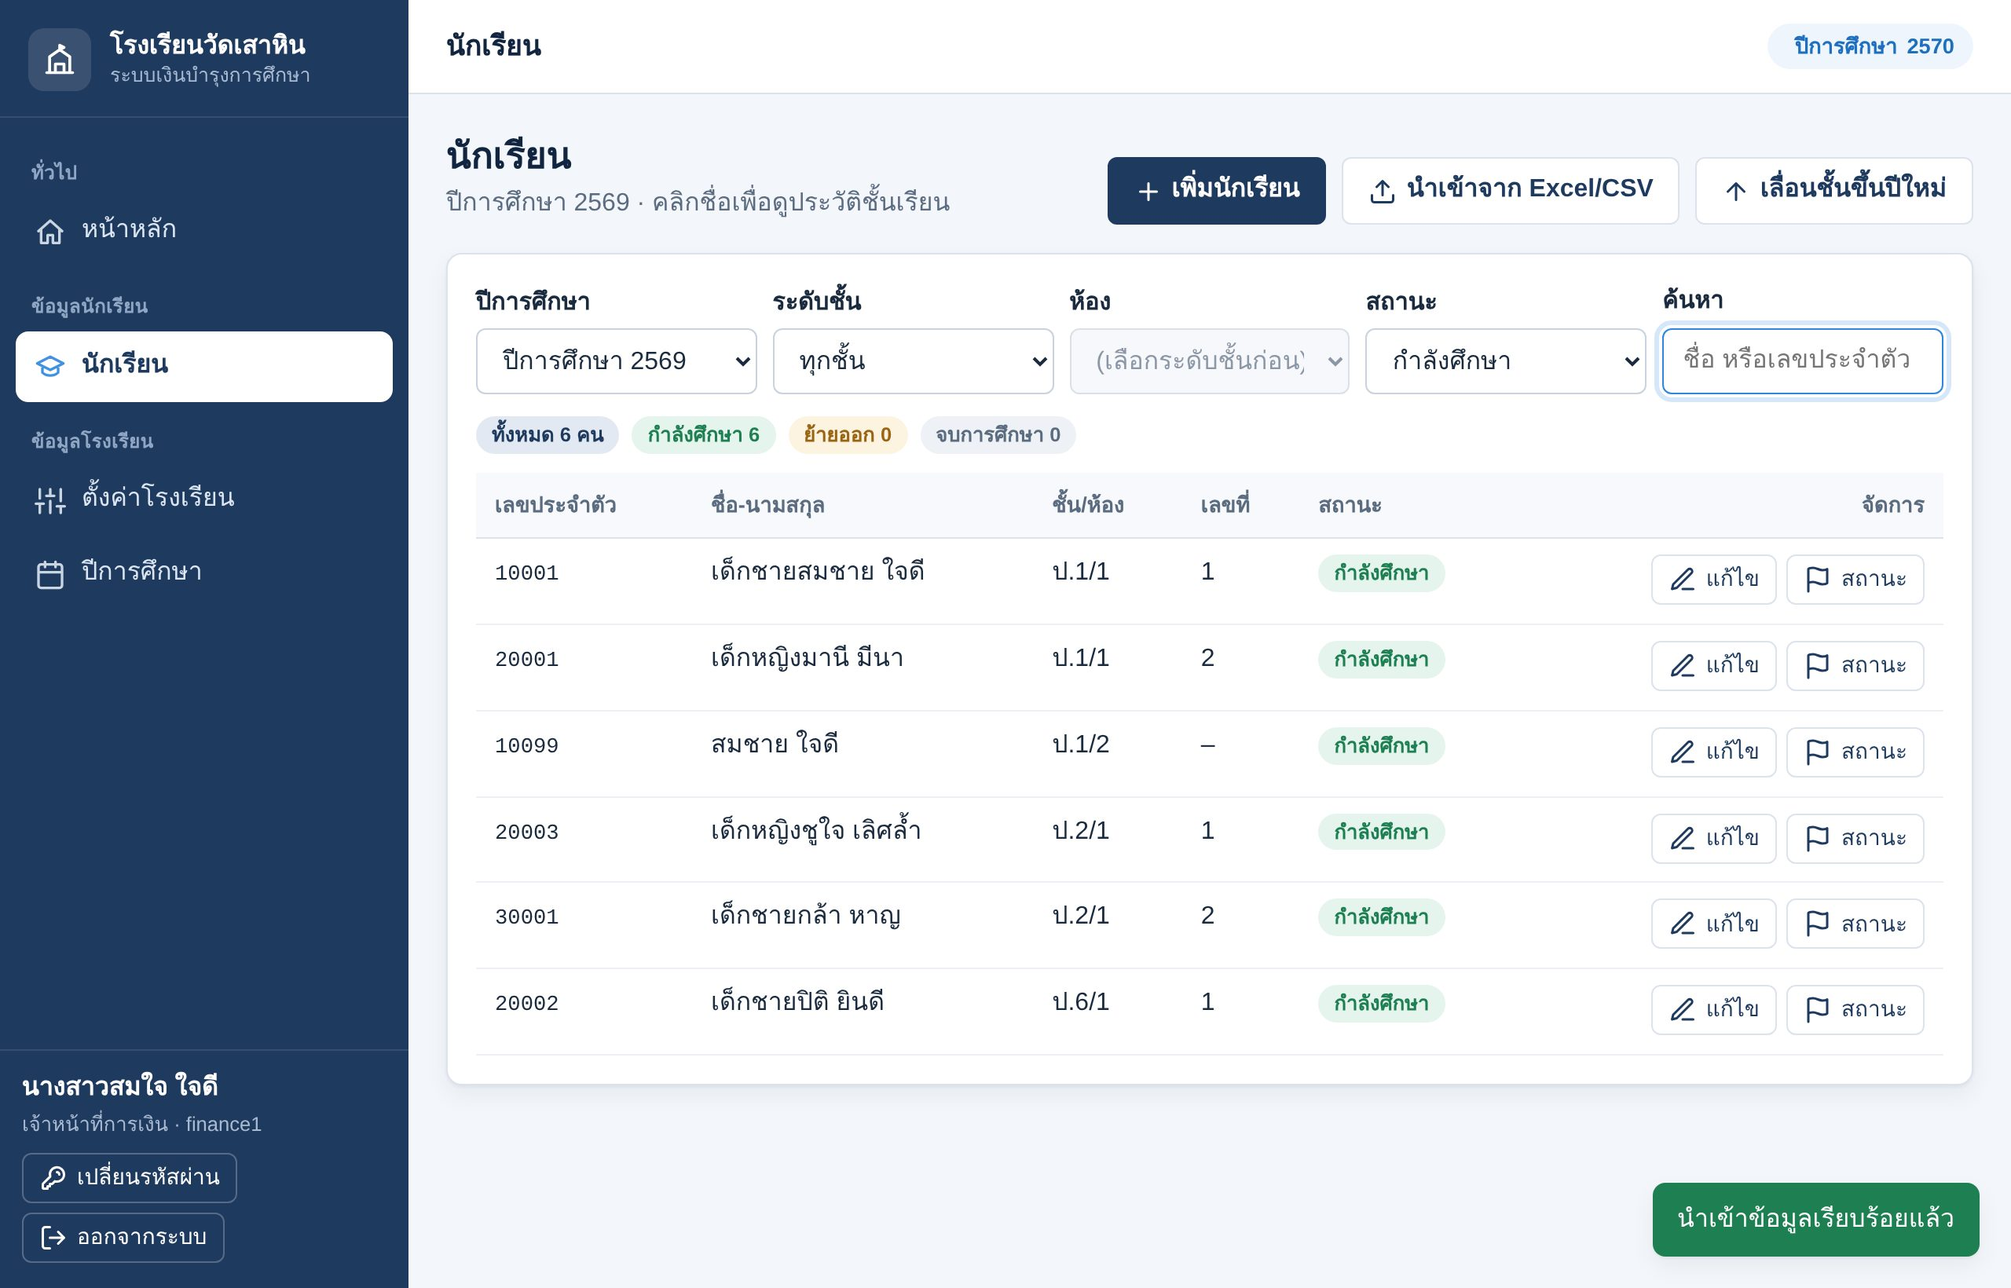
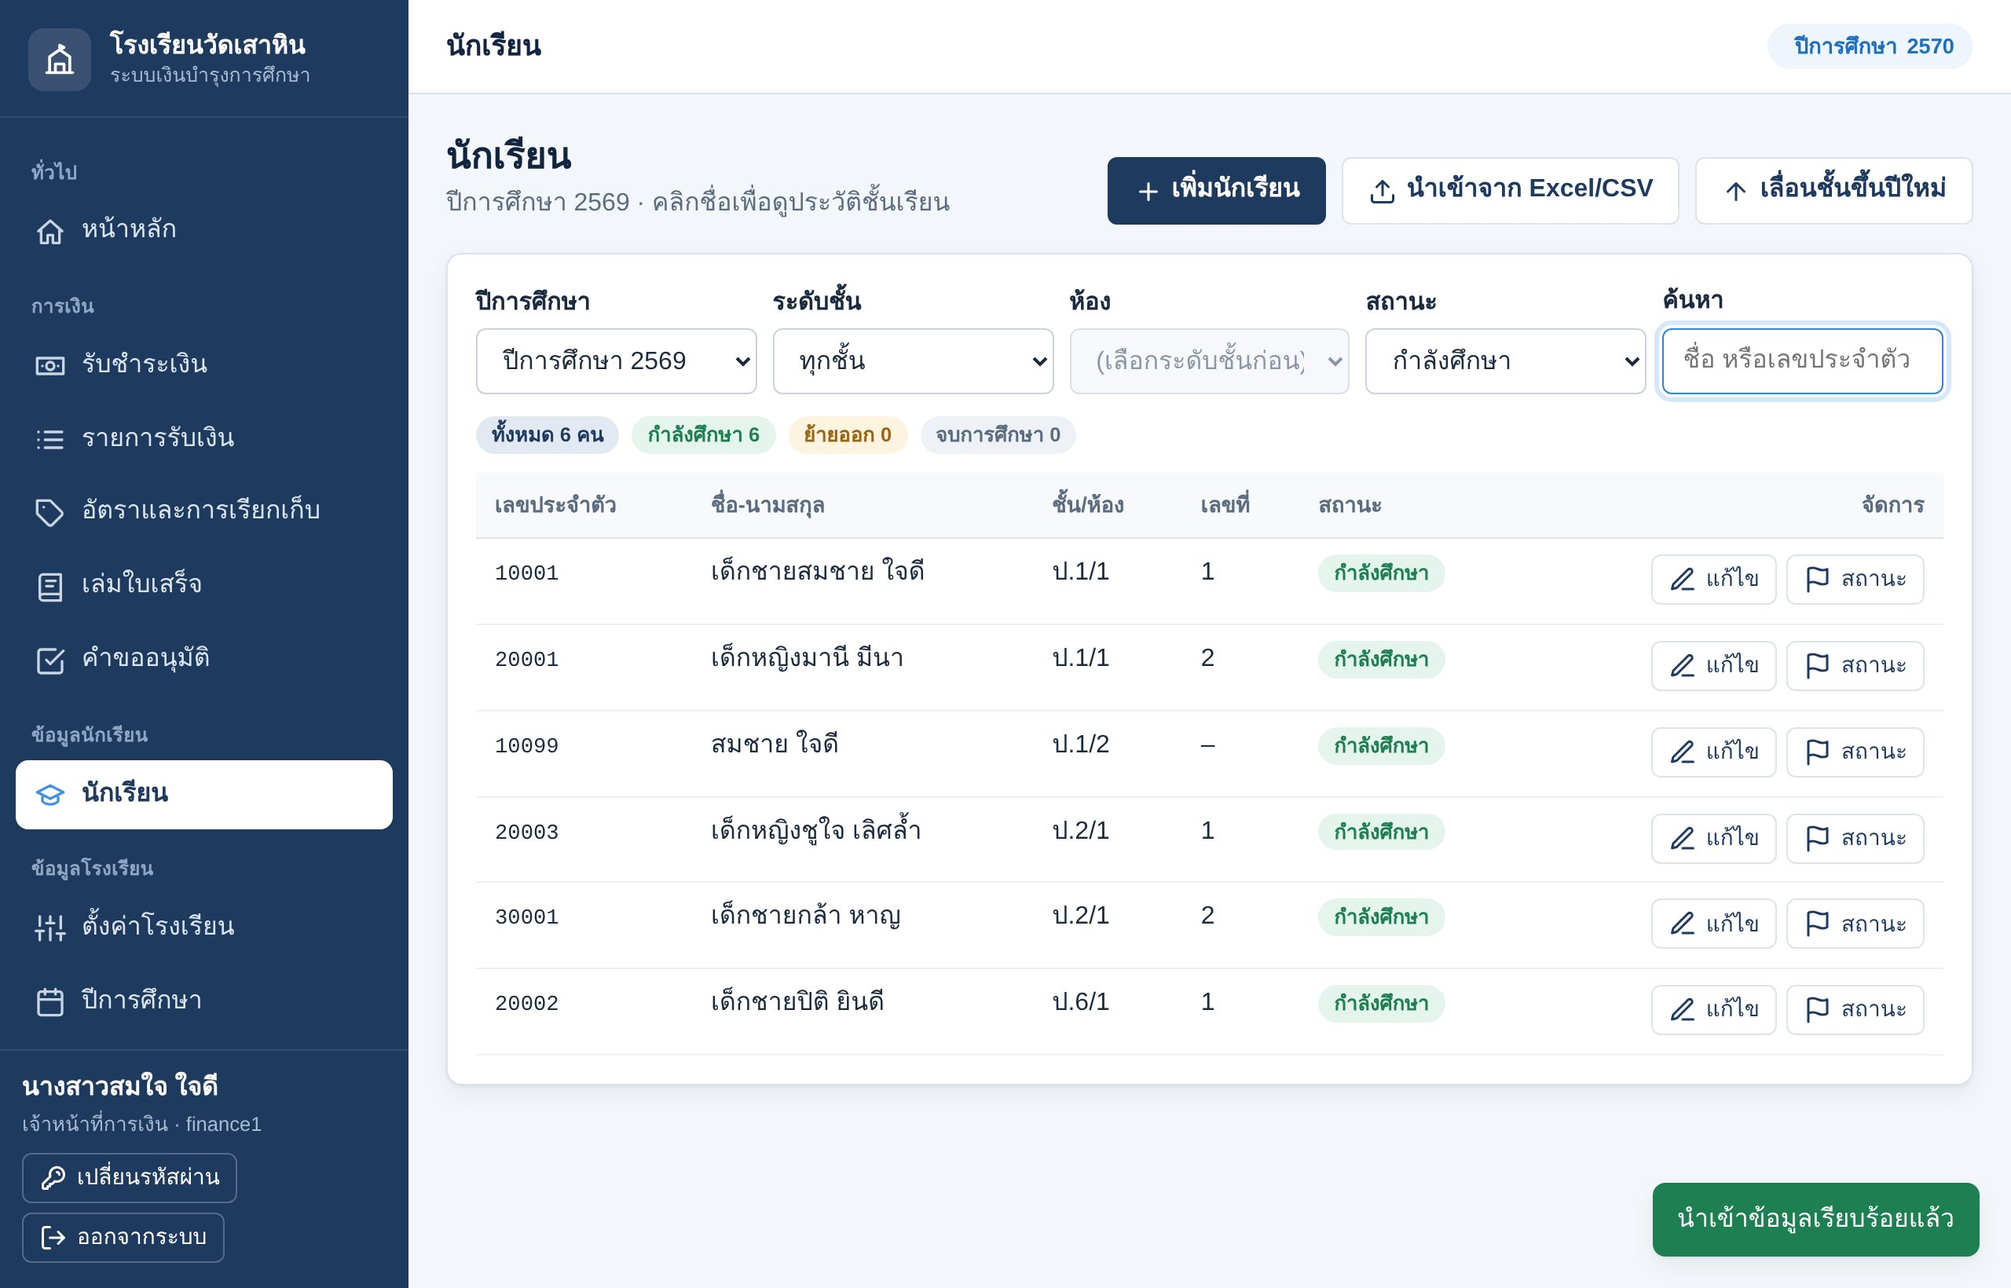
WIP phase 4: browser test for billing, payments and approvals
Claude-Session: https://claude.ai/code/session_01BDLGUZyMgibnDUksUMYFkQ

diff --git a/tests/e2e/ui.e2e.js b/tests/e2e/ui.e2e.js
@@ -314,6 +314,115 @@ async function main() {
     await p.getByRole('button', { name: 'ดูรายชื่อนักเรียน ปีการศึกษา 2570' }).click();
     await p.locator('td', { hasText: 'ป.2/1' }).first().waitFor();
     check((await p.locator('.data-table tbody tr').count()) === 4, 'ปีการศึกษา 2570 มีนักเรียนที่เลื่อนชั้นแล้ว 4 คน');
+
+    // ------------------------------------------------------------------ คอมพิวเตอร์: เจ้าหน้าที่การเงิน → อัตรา เรียกเก็บ เล่มใบเสร็จ รับเงิน
+    await nav(p, 'อัตราและการเรียกเก็บ');
+    await p.getByText('ยังไม่มีอัตราเงินบำรุงของปีการศึกษานี้').waitFor();
+    await p.getByRole('button', { name: 'ตั้งอัตราเงินบำรุง' }).click();
+    await modal.getByRole('button', { name: 'ตั้งอัตรา' }).click();
+    await modal.getByText('กรุณาเลือกระดับชั้น (เลือกได้หลายชั้นถ้าอัตราเท่ากัน)').waitFor();
+    check(true, 'ฟอร์มตั้งอัตราเตือนเมื่อยังไม่เลือกระดับชั้น');
+    await modal.getByLabel('ป.2', { exact: true }).check();
+    await modal.getByLabel('ป.3', { exact: true }).check();
+    await modal.getByLabel(/^จำนวนเงินต่อคน/).fill('500');
+    await modal.getByLabel(/^วันครบกำหนดชำระ/).fill('2027-06-30');
+    await modal.getByLabel('เอกสารที่อนุมัติอัตรา').fill('มติคณะกรรมการสถานศึกษา ครั้งที่ 1/2570 ลงวันที่ 1 พ.ค. 2570');
+    await modal.getByRole('button', { name: 'ตั้งอัตรา' }).click();
+    await toast(p, 'ตั้งอัตราแล้ว 2 ชั้น');
+    await p.locator('.data-table tbody tr', { hasText: 'ป.2' }).getByRole('button', { name: 'สร้างรายการเรียกเก็บ' }).click();
+    await p.locator('.modal').getByText('จะสร้างรายการเรียกเก็บ 3 คน รวม 1,500.00 บาท').waitFor();
+    check(true, 'ดูตัวอย่างก่อนสร้างรายการเรียกเก็บ: ป.2 จำนวน 3 คน รวม 1,500.00 บาท');
+    await shot(p, '16-fee-generate');
+    await p.locator('.modal').getByRole('button', { name: 'สร้างรายการเรียกเก็บ 3 คน' }).click();
+    await toast(p, 'สร้างรายการเรียกเก็บ 3 คน รวม 1,500.00 บาท เรียบร้อยแล้ว');
+    await p.locator('.data-table tbody tr', { hasText: 'ป.3' }).getByRole('button', { name: 'สร้างรายการเรียกเก็บ' }).click();
+    await p.locator('.modal').getByRole('button', { name: 'สร้างรายการเรียกเก็บ 1 คน' }).click();
+    await toast(p, 'สร้างรายการเรียกเก็บ 1 คน');
+    await p.locator('.stat', { hasText: 'คงค้าง' }).getByText('2,000.00 บาท').waitFor();
+    check(true, 'หน้าอัตราแสดงยอดคงค้างรวม 2,000.00 บาท');
+    await shot(p, '17-fees');
+
+    await nav(p, 'รับชำระเงิน');
+    await p.getByText('ยังไม่มีเล่มใบเสร็จที่กำลังใช้').waitFor();
+    check(true, 'หน้ารับเงินเตือนเมื่อยังไม่มีเล่มใบเสร็จที่กำลังใช้');
+    await p.getByRole('button', { name: 'ไปที่เล่มใบเสร็จ' }).click();
+    await p.locator('#page-title', { hasText: 'เล่มใบเสร็จ' }).waitFor();
+    await p.getByRole('button', { name: 'ลงทะเบียนเล่มใหม่' }).click();
+    await modal.getByLabel(/^เลขเล่ม/).fill('1/2570');
+    await modal.getByLabel(/^เลขที่ใบแรก/).fill('1');
+    await modal.getByLabel(/^เลขที่ใบสุดท้าย/).fill('50');
+    await modal.getByRole('button', { name: 'ลงทะเบียน' }).click();
+    await toast(p, 'ลงทะเบียนเล่มที่ 1/2570 (เลขที่ 1–50) เรียบร้อยแล้ว');
+    await p.getByRole('button', { name: 'เปิดใช้', exact: true }).click();
+    await p.locator('.modal').getByRole('button', { name: 'เปิดใช้เล่มนี้' }).click();
+    await toast(p, 'เปิดใช้เล่มที่ 1/2570 แล้ว เลขที่ถัดไปคือ 1');
+    await p.getByText('เล่มที่ 1/2570 เลขที่ 1', { exact: true }).waitFor();
+    await shot(p, '18-receipt-books');
+
+    await nav(p, 'รับชำระเงิน');
+    check((await p.locator('.data-table tbody tr').count()) === 4, 'หน้ารับเงินแสดงนักเรียนที่มียอดค้าง 4 คน');
+    await p.getByLabel('ค้นหานักเรียน').fill('มานี');
+    await p.locator('.data-table tbody tr', { hasText: 'มานี' }).click();
+    await p.getByRole('heading', { name: 'รับชำระเงิน: เด็กหญิงมานี มีนา' }).waitFor();
+    await p.getByLabel(/^จำนวนเงินที่รับ/).fill('300');
+    check((await p.getByLabel(/^ตัดชำระ /).first().inputValue()) === '300.00', 'กรอกจำนวนเงินแล้วระบบตัดชำระหนี้เก่าก่อนให้อัตโนมัติ');
+    await p.getByText('ยอดตัดชำระรวม 300.00 บาท เท่ากับจำนวนเงินที่รับ').waitFor();
+    await p.locator('.receipt-preview').getByText('(สามร้อยบาทถ้วน)').waitFor();
+    check(true, 'แสดงรายการที่ต้องเขียนในใบเสร็จ พร้อมจำนวนเงินเป็นตัวอักษร');
+    await p.getByRole('button', { name: 'บันทึกการรับเงิน' }).click();
+    await p.getByText('กรุณาติ๊กยืนยันว่าได้ตรวจสอบใบเสร็จรับเงินฉบับจริงแล้ว').waitFor();
+    check(true, 'บันทึกไม่ได้จนกว่าจะติ๊กยืนยันว่าตรวจใบเสร็จฉบับจริงแล้ว');
+    await p.locator('#confirm-receipt').check();
+    await shot(p, '19-payment-form');
+    await p.getByRole('button', { name: 'บันทึกการรับเงิน' }).click();
+    await p.getByRole('heading', { name: 'บันทึกการรับเงินเรียบร้อย' }).waitFor();
+    check(await p.getByText('เล่มที่ 1/2570 เลขที่ 1', { exact: true }).isVisible(), 'บันทึกรับเงินใบเสร็จเล่มที่ 1/2570 เลขที่ 1');
+    check(await p.locator('.data-table').getByText('ชำระบางส่วน').isVisible(), 'สถานะเปลี่ยนเป็นชำระบางส่วน');
+    await shot(p, '20-payment-done');
+    await p.getByRole('button', { name: 'รับเงินจากนักเรียนคนนี้อีกครั้ง' }).click();
+    await p.getByRole('button', { name: 'รับเต็มยอดค้าง 200.00 บาท' }).click();
+    await p.getByLabel(/^ช่องทางการรับเงิน/).selectOption('โอนเงินเข้าบัญชีโรงเรียน');
+    await p.locator('#confirm-receipt').check();
+    await p.getByRole('button', { name: 'บันทึกการรับเงิน' }).click();
+    await p.getByText('กรุณากรอกเลขอ้างอิงการโอน').waitFor();
+    check(true, 'รับเงินโอนต้องกรอกเลขอ้างอิงการโอน');
+    await p.getByLabel(/^เลขอ้างอิงการโอน/).fill('KTB-20261121-001');
+    await p.getByRole('button', { name: 'บันทึกการรับเงิน' }).click();
+    await p.getByRole('heading', { name: 'บันทึกการรับเงินเรียบร้อย' }).waitFor();
+    check(await p.getByText('เล่มที่ 1/2570 เลขที่ 2', { exact: true }).isVisible(), 'เลขที่ใบเสร็จเดินต่อเป็นเลขที่ 2');
+    check(await p.locator('.data-table').getByText('ชำระครบ').isVisible(), 'จ่ายครบแล้วสถานะเป็นชำระครบ');
+
+    await nav(p, 'อัตราและการเรียกเก็บ');
+    await p.locator('.data-table tbody tr td', { hasText: /^ป\.2$/ }).click();
+    await p.getByRole('heading', { name: 'เงินบำรุงการศึกษา ภาคเรียนที่ 1/2570 ชั้น ป.2' }).waitFor();
+    await p.locator('.data-table tbody tr', { hasText: '10001' }).getByRole('button', { name: 'ลดหย่อน/ยกเว้น' }).click();
+    await modal.getByLabel(/^จำนวนเงินที่ลดหย่อน/).fill('100');
+    await modal.getByLabel(/^เหตุผล/).fill('ครอบครัวมีรายได้น้อย');
+    await modal.getByLabel(/^เอกสารอ้างอิง/).fill('หนังสือขอลดหย่อน ลงวันที่ 20 พ.ย. 2569');
+    await modal.getByRole('button', { name: 'ส่งคำขอ' }).click();
+    await toast(p, 'ส่งคำขอลดหย่อน 100.00 บาท ให้ผู้อำนวยการพิจารณาแล้ว');
+    await p.locator('.data-table tbody tr', { hasText: '10001' }).getByText('รออนุมัติ: ลดหย่อน/ยกเว้น').waitFor();
+    check(true, 'ส่งคำขอลดหย่อนแล้ว รายการแสดงว่ารออนุมัติ และยอดเดิมยังมีผล');
+    await shot(p, '21-fee-detail');
+
+    await p.getByRole('button', { name: 'กลับ' }).click();
+    await p.locator('.data-table tbody tr td', { hasText: /^ป\.3$/ }).click();
+    await p.locator('.data-table tbody tr', { hasText: '30001' }).click();
+    await p.getByRole('heading', { name: 'เด็กชายกล้า หาญ' }).waitFor();
+    await p.getByRole('button', { name: 'ลดหย่อน/ยกเว้น' }).click();
+    await modal.getByLabel(/^ประเภท/).selectOption('EXEMPTION');
+    check((await modal.getByLabel(/^จำนวนเงินที่ลดหย่อน/).inputValue()) === '500.00', 'เลือกยกเว้นแล้วจำนวนเงินเป็นยอดคงเหลือทั้งหมด');
+    await modal.getByLabel(/^เหตุผล/).fill('นักเรียนทุนพระราชทาน');
+    await modal.getByLabel(/^เอกสารอ้างอิง/).fill('ประกาศโรงเรียน ที่ 5/2569');
+    await modal.getByRole('button', { name: 'ส่งคำขอ' }).click();
+    await toast(p, 'ส่งคำขอยกเว้น 500.00 บาท ให้ผู้อำนวยการพิจารณาแล้ว');
+    await p.getByText('รออนุมัติ: ลดหย่อน/ยกเว้น').waitFor();
+    await shot(p, '22-student-account');
+
+    await nav(p, 'รายการรับเงิน');
+    await p.getByText('2 ฉบับ รวม 500.00 บาท').waitFor();
+    check((await p.locator('.data-table tbody tr').count()) === 2, 'รายการรับเงินวันนี้ 2 ฉบับ รวม 500.00 บาท');
+    await shot(p, '23-payment-history');
     await desk.context.close();
 
     // ------------------------------------------------------------------ มือถือ: ผู้อำนวยการ
@@ -324,6 +433,8 @@ async function main() {
     await login(m, 'director1', 'TempPass456');
     await forcedChange(m, 'TempPass456', 'Director2569pw');
     await m.getByRole('heading', { name: /สวัสดี คุณนายสมชาย รักโรงเรียน/ }).waitFor();
+    await m.locator('.stat', { hasText: 'คำขอรอพิจารณา' }).getByText('2 รายการ').waitFor();
+    check(true, 'หน้าหลักผู้อำนวยการแสดงคำขอรอพิจารณา 2 รายการ');
     check(await noHorizontalScroll(m), 'มือถือ: หน้าหลักไม่มีแถบเลื่อนแนวนอน');
     const sideBox = await m.locator('.sidebar').boundingBox();
     check(!sideBox || sideBox.x + sideBox.width <= 1, 'มือถือ: เมนูข้างซ่อนไว้จนกว่าจะกดปุ่มเมนู');
@@ -342,6 +453,35 @@ async function main() {
     check(!(await m.getByRole('button', { name: 'เพิ่มนักเรียน' }).count()), 'ผู้อำนวยการดูรายชื่อนักเรียนได้ แต่ไม่มีปุ่มเพิ่มหรือนำเข้า');
     check(await noHorizontalScroll(m), 'มือถือ: รายชื่อนักเรียนไม่มีแถบเลื่อนแนวนอน');
     await shot(m, '15-mobile-students');
+
+    await m.getByRole('button', { name: 'เปิดเมนู' }).click();
+    check(!(await m.locator('.nav-item', { hasText: 'รับชำระเงิน' }).count()), 'ผู้อำนวยการไม่เห็นเมนูรับชำระเงิน');
+    await m.locator('.nav-item', { hasText: 'คำขออนุมัติ' }).click();
+    await m.locator('.data-table tbody tr').first().waitFor();
+    check(await noHorizontalScroll(m), 'มือถือ: หน้าคำขออนุมัติไม่มีแถบเลื่อนแนวนอน');
+    await shot(m, '24-mobile-approvals');
+    await m.locator('.data-table tbody tr', { hasText: 'ลดหย่อน 100.00 บาท' }).getByRole('button', { name: 'พิจารณา' }).click();
+    await m.locator('.modal').getByText('หนังสือขอลดหย่อน ลงวันที่ 20 พ.ย. 2569').waitFor();
+    await m.locator('.modal').getByRole('button', { name: 'อนุมัติ', exact: true }).click();
+    await toast(m, 'อนุมัติคำขอเรียบร้อยแล้ว');
+    await m.locator('.data-table tbody tr', { hasText: 'ยกเว้น 500.00 บาท' }).getByRole('button', { name: 'พิจารณา' }).click();
+    await m.locator('.modal').getByRole('button', { name: 'ไม่อนุมัติ' }).click();
+    await m.locator('.modal').getByText('กรุณากรอกเหตุผลที่ไม่อนุมัติ').waitFor();
+    check(true, 'ไม่อนุมัติต้องกรอกเหตุผล');
+    await m.locator('.modal').getByLabel(/^ความเห็น/).fill('ขอเอกสารประกาศทุนฉบับจริงก่อน');
+    await m.locator('.modal').getByRole('button', { name: 'ไม่อนุมัติ' }).click();
+    await toast(m, 'ไม่อนุมัติคำขอเรียบร้อยแล้ว');
+    await m.getByText('ไม่มีคำขอที่รออนุมัติ').waitFor();
+    check(true, 'ผู้อำนวยการอนุมัติ 1 คำขอ และไม่อนุมัติ 1 คำขอ');
+    const forgedPay = await m.evaluate(() => App.api('payments.create', {}).then(() => 'allowed', (e) => e.code));
+    check(forgedPay === 'FORBIDDEN', 'ผู้อำนวยการเรียกคำสั่งบันทึกรับเงินโดยตรง ถูก Server ปฏิเสธ');
+    await m.getByRole('button', { name: 'เปิดเมนู' }).click();
+    await m.locator('.nav-item', { hasText: 'อัตราและการเรียกเก็บ' }).click();
+    await m.locator('.data-table tbody tr td', { hasText: /^ป\.2$/ }).click();
+    await m.locator('.data-table tbody tr', { hasText: '10001' }).getByText('400.00').first().waitFor();
+    check(true, 'หลังอนุมัติ ยอดสุทธิของนักเรียนลดเหลือ 400.00 บาท');
+    check(await noHorizontalScroll(m), 'มือถือ: รายการเรียกเก็บไม่มีแถบเลื่อนแนวนอน');
+    await shot(m, '25-mobile-fee-detail');
     await mobile.context.close();
   } finally {
     await browser.close();
